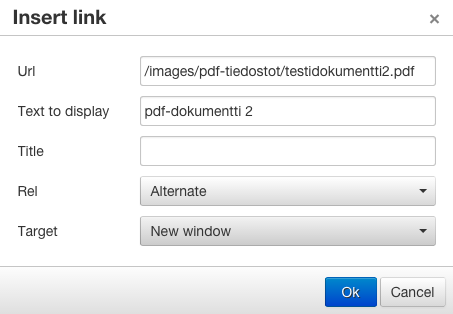
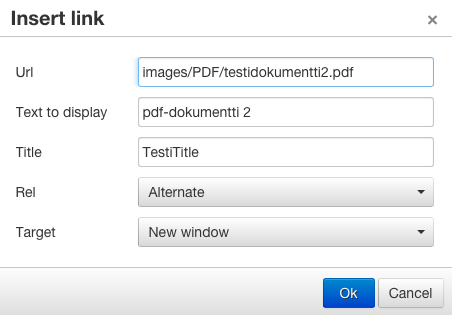
-

diff --git a/vkry/pages/pdf-linkit-sivulle.md b/vkry/pages/pdf-linkit-sivulle.md
@@ -44,7 +44,7 @@ Sitten etsitään yläpalkista pieni ketjun kuvake  (esimerkissä toiminto __Ins
 
 Nyt jos haluttu sana on edelleen valittuna/valaistuna niin linkki muodostuu ko.sanasta tai tekstistä, eli linkki on siellä takana mutta teksti pysyy ennallaan.
 
-Seuraavassa vielä miten linkki määritellään.
+Seuraavassa vielä miten linkin osoite määritetään.
 
 
 ## 4. Linkin osoite
@@ -57,10 +57,10 @@ Linkin lisäys (Insert tai edit) avaa pienen ikkunan joka näyttää seuraavanla
 
 Kenttä __Url__ on tässä tapauksessa se tärkein, ja täytyy antaa oikeassa muodossa että varsinainen sivu (HTML) löytää sen serveriltä.
 
-Toistaiseksi URL-osoite menee niin että osoite alkaa aina __/images/__  osalla, ja jatkuu sen kansion nimellä jonne
+Toistaiseksi URL-osoite menee niin että osoite alkaa aina __images/__  osalla, ja jatkuu sen kansion nimellä jonne
 pdf-tiedosto on aiemmin viety.
 
-Esimerkissä se voisi olla __/images/pdf-tiedostot/testidokumentti2.pdf__
+Esimerkissä se voisi olla __images/PDF/testidokumentti2.pdf__
 
 
 <figure class="fig-n border" style="margin:0 0 20px 0">
@@ -70,13 +70,19 @@ Esimerkissä se voisi olla __/images/pdf-tiedostot/testidokumentti2.pdf__
 
 Eli URL-osoitteen muoto:
 
-* vakioalku __/images__  + kansion nimi (__pdf-tiedostot__) + tiedoston nimi (__testidokumentti2.pdf__).
+* vakioalku __images__  + kansion nimi (__PDF__) + tiedoston nimi (__testidokumentti2.pdf__).
 
-Ja kauttaviivat alkuun ja osien väliin (=ovat tärkeitä ja täytyy olla oikein, muuten serveri ei löydä tiedostoa).
+Ja kauttaviivat osien väliin (=ovat tärkeitä ja täytyy olla oikein, muuten serveri ei löydä tiedostoa).
+Kuvaruutumallissa näkyy ehkä syntaksi selvemmin.
+
+__Kansion nimi__ josta tiedostoa haetaan, voi olla joku muukin. Pääasia että se on sama kuin minne pdf-tiedosto on ladattu MediaManager:n avulla.
+
+Myös pienet/isot kirjaimet on tärkeä olla oikein. __Huom!__ esimerkissä on kansion nimi (PDF) isoilla kirjaimilla, muut osat pienillä. Pääasia että ne ovat samoin kuin serverille on ne luotu/perustettu; jos kansion nimi näkyy MediaManager:ssa pienillä niin tähänkin kirjoitetaan samoin pienillä kirjaimilla.
+
 
 ----
 
-Linkin osoitteessa muut kentät ovat :
+Linkin määrityksessä muut kentät ovat :
 
 * __Text to display__: valittu teksti johon linkki muodostuu
 * __Title__: avaa tämän tekstin pieneen ikkunaan jos kursori viedään linkin päälle ja pidetään hetken paikallaan
@@ -84,7 +90,7 @@ Linkin osoitteessa muut kentät ovat :
 * __Target__: None=pdf avautuu samaan selaimen välilehteen; New Window=avataan uuteen välilehteen
 
 
-----
+
 
 [1]: kuvat/kuva170.png "Ruutumalli"
 [2]: kuvat/kuva171.png "Ruutumalli"

diff --git a/vkry/pages/pdf-linkit-valikkoon.md b/vkry/pages/pdf-linkit-valikkoon.md
@@ -1,0 +1,8 @@
+# PDF-tiedostojen linkittäminen valikkoon
+
+PDF-muotoisen sisällön voi myös linkittää suoraan valikkoon.
+
+__TÄMÄ SIVU VIELÄ KESKEN__.
+
+----
+
